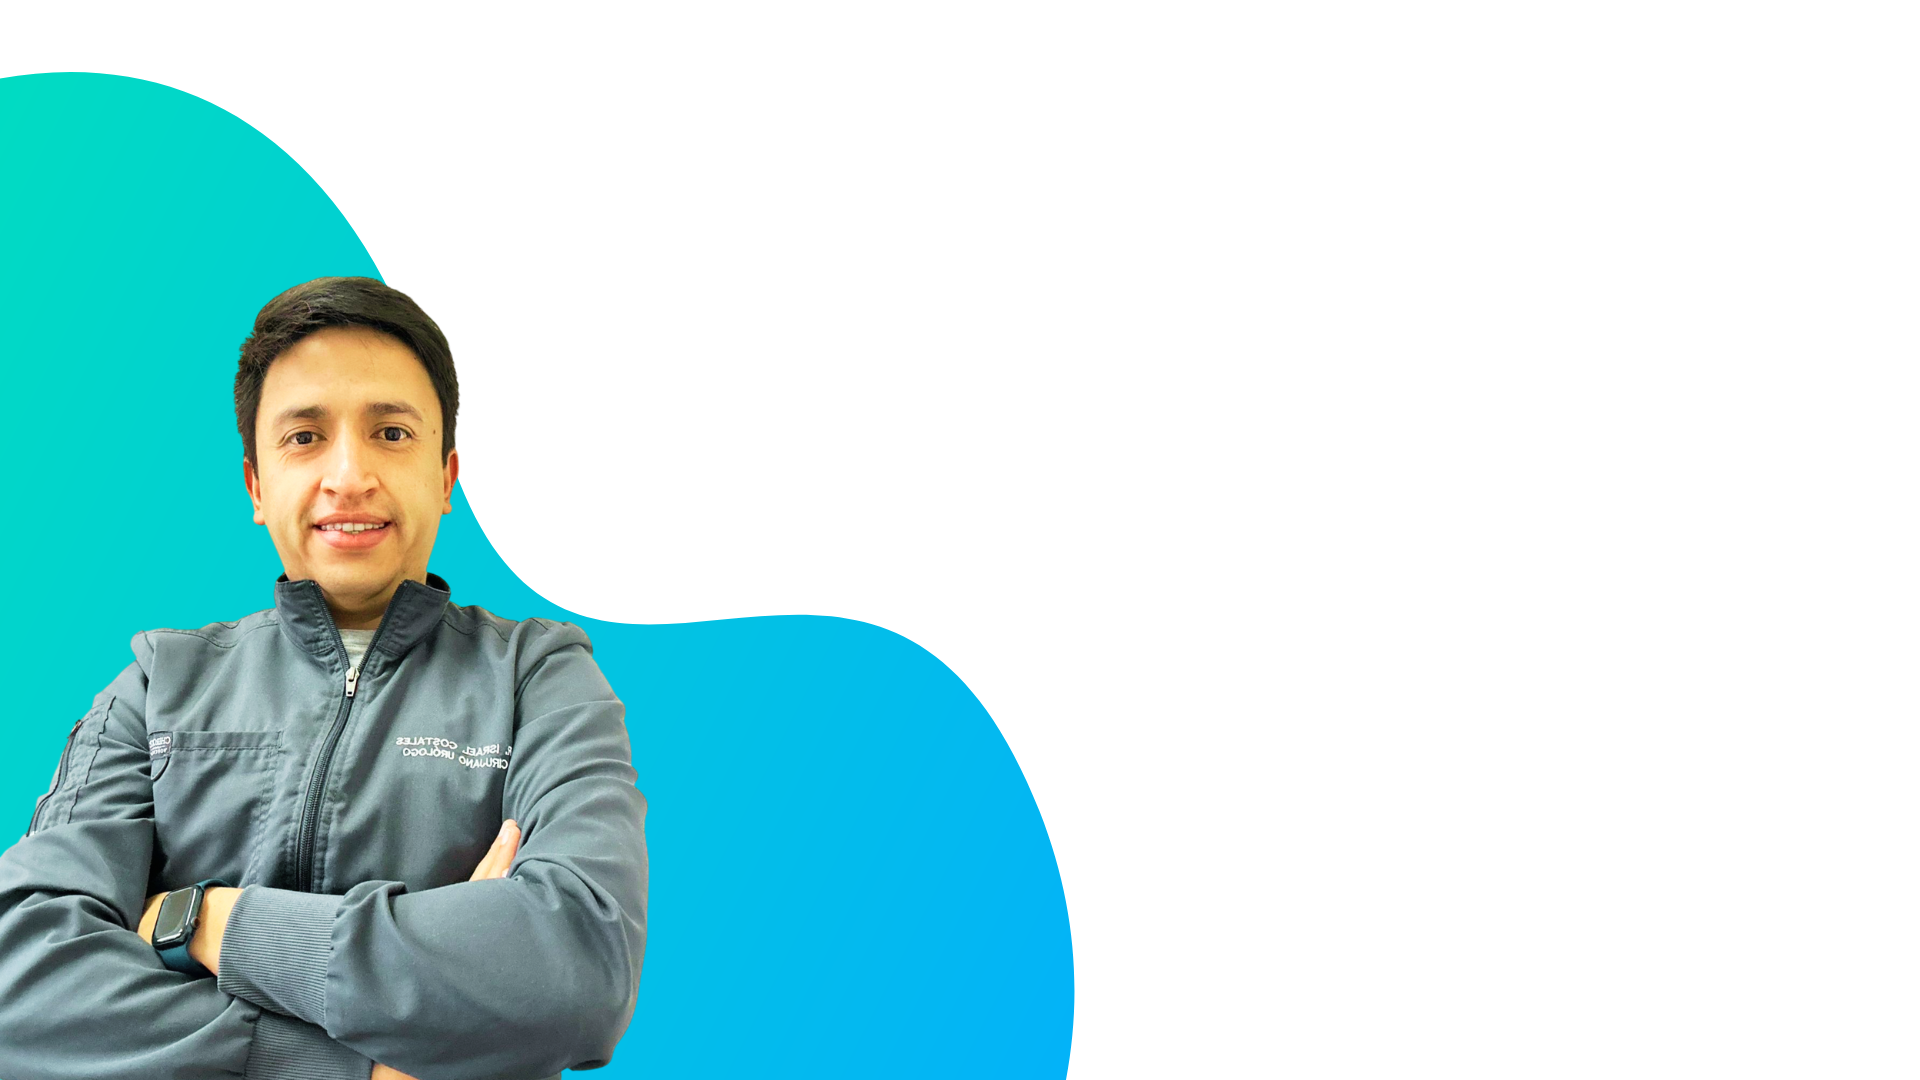
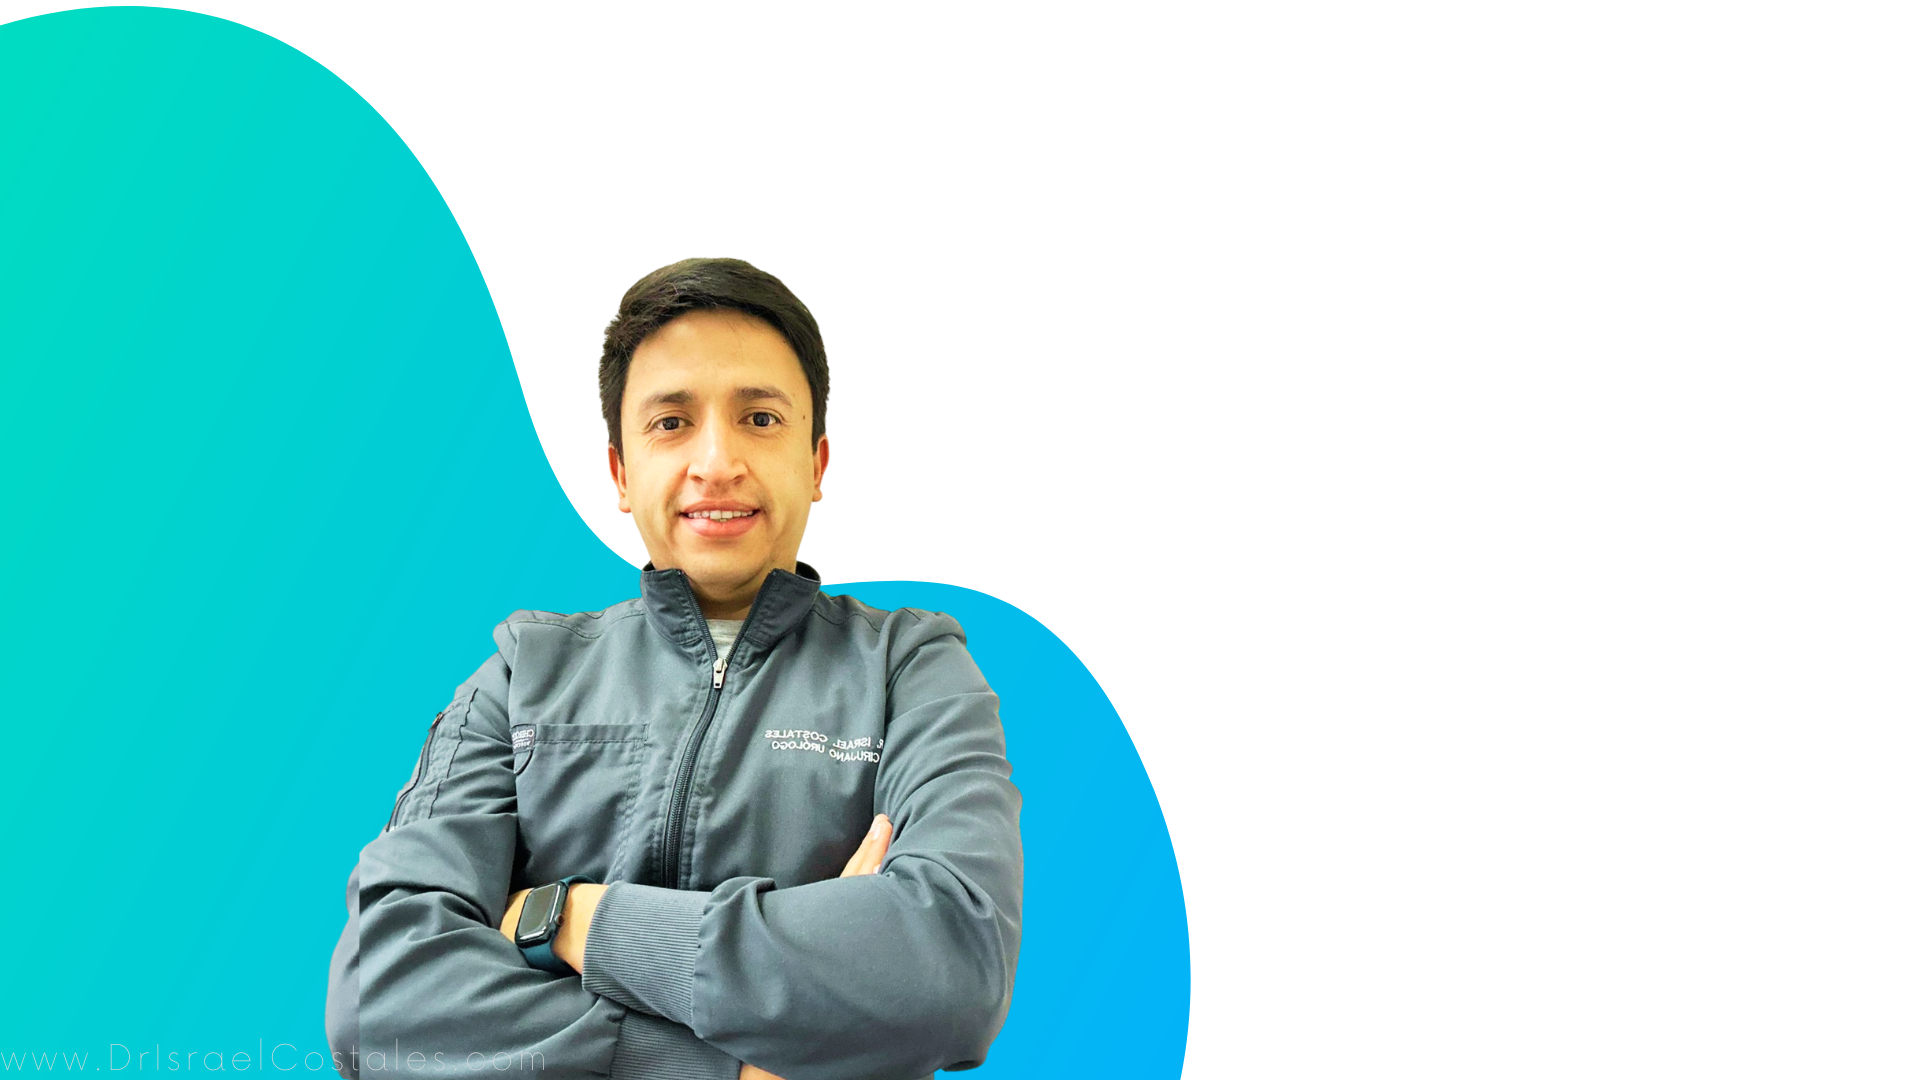
change carousel  and footer redesing tag

diff --git a/contact.html b/contact.html
@@ -152,10 +152,7 @@
                                 </div>
                             </div>
                             <div class="col-12">
-                                <button class="btn btn-dark py-3 px-4" type="submit"><i class="bi bi-send text-info me-2"></i>Enviar</button>
-                            </div>
-                            <div class="col-12">
-                               
+                                <button class="btn btn-dark py-3 px-4 w-50" type="submit"><i class="bi bi-send text-info me-2"></i>Enviar</button>
                             </div>
                         <div class="row g-3">
                             <div class="col-sm">
@@ -249,7 +246,7 @@
                 <div class="col-md-6 text-center text-md-end">
                     <!--/*** This template is free as long as you keep the footer author’s credit link/attribution link/backlink. If you'd like to use the template without the footer author’s credit link/attribution link/backlink, you can purchase the Credit Removal License from "https://htmlcodex.com/credit-removal". Thank you for your support. ***/-->
                     
-Designed By <a class="border-bottom" href="https://htmlcodex.com">HTML Codex</a> Redesigned By <a href="https://github.com/Npirela">Npirela</a>
+Designed By <a class="border-bottom" href="https://htmlcodex.com">HTML Codex</a> Redesigned By <a href="https://github.com/Npirela">Npirela 2024 ©</a>
                 </div>
             </div>
         </div>

diff --git a/index.html b/index.html
@@ -761,8 +761,7 @@ Cirujano Urólogo</h1>
                 </div>
                 <div class="col-md-6 text-center text-md-end">
                     <!--/*** This template is free as long as you keep the footer author’s credit link/attribution link/backlink. If you'd like to use the template without the footer author’s credit link/attribution link/backlink, you can purchase the Credit Removal License from "https://htmlcodex.com/credit-removal". Thank you for your support. ***/-->
-                    Designed By <a class="border-bottom" href="https://htmlcodex.com">HTML Codex</a> Distributed By <a
-                    href="https://themewagon.com">ThemeWagon</a>
+                    Designed By <a class="border-bottom" href="https://htmlcodex.com">HTML Codex</a> Redesigned By <a href="https://github.com/Npirela">Npirela 2024 ©</a>
                 </div>
             </div>
         </div>

diff --git a/team.html b/team.html
@@ -233,8 +233,7 @@
                 </div>
                 <div class="col-md-6 text-center text-md-end">
                     <!--/*** This template is free as long as you keep the footer author’s credit link/attribution link/backlink. If you'd like to use the template without the footer author’s credit link/attribution link/backlink, you can purchase the Credit Removal License from "https://htmlcodex.com/credit-removal". Thank you for your support. ***/-->
-                    Designed By <a class="border-bottom" href="https://htmlcodex.com">HTML Codex</a>  Distributed By <a
-                    href="https://themewagon.com">ThemeWagon</a>
+                    Designed By <a class="border-bottom" href="https://htmlcodex.com">HTML Codex</a>  Redesigned By <a href="https://github.com/Npirela">Npirela 2024 ©</a>
                 </div>
             </div>
         </div>

diff --git a/about.html b/about.html
@@ -371,7 +371,7 @@ Cirujano Urólogo</h1>
                 <div class="col-md-6 text-center text-md-end">
                     <!--/*** This template is free as long as you keep the footer author’s credit link/attribution link/backlink. If you'd like to use the template without the footer author’s credit link/attribution link/backlink, you can purchase the Credit Removal License from "https://htmlcodex.com/credit-removal". Thank you for your support. ***/-->
                     
-Designed By <a class="border-bottom" href="https://htmlcodex.com">HTML Codex</a> Redesigned By <a href="https://github.com/Npirela">Npirela</a>
+Designed By <a class="border-bottom" href="https://htmlcodex.com">HTML Codex</a> Redesigned By <a href="https://github.com/Npirela">Npirela 2024 ©</a>
                 </div>
             </div>
         </div>

diff --git a/404.html b/404.html
@@ -193,7 +193,7 @@
                 <div class="col-md-6 text-center text-md-end">
                     <!--/*** This template is free as long as you keep the footer author’s credit link/attribution link/backlink. If you'd like to use the template without the footer author’s credit link/attribution link/backlink, you can purchase the Credit Removal License from "https://htmlcodex.com/credit-removal". Thank you for your support. ***/-->
                     
-Designed By <a class="border-bottom" href="https://htmlcodex.com">HTML Codex</a> Redesigned By <a href="https://github.com/Npirela">Npirela</a>
+Designed By <a class="border-bottom" href="https://htmlcodex.com">HTML Codex</a> Redesigned By <a href="https://github.com/Npirela">Npirela 2024 ©</a>
                 </div>
             </div>
         </div>

diff --git a/feature.html b/feature.html
@@ -230,7 +230,7 @@
                 <div class="col-md-6 text-center text-md-end">
                     <!--/*** This template is free as long as you keep the footer author’s credit link/attribution link/backlink. If you'd like to use the template without the footer author’s credit link/attribution link/backlink, you can purchase the Credit Removal License from "https://htmlcodex.com/credit-removal". Thank you for your support. ***/-->
                     
-Designed By <a class="border-bottom" href="https://htmlcodex.com">HTML Codex</a> Redesigned By <a href="https://github.com/Npirela">Npirela</a>
+Designed By <a class="border-bottom" href="https://htmlcodex.com">HTML Codex</a> Redesigned By <a href="https://github.com/Npirela">Npirela 2024 ©</a>
                 </div>
             </div>
         </div>

diff --git a/interviews.html b/interviews.html
@@ -197,7 +197,7 @@
                 <div class="col-md-6 text-center text-md-end">
                     <!--/*** This template is free as long as you keep the footer author’s credit link/attribution link/backlink. If you'd like to use the template without the footer author’s credit link/attribution link/backlink, you can purchase the Credit Removal License from "https://htmlcodex.com/credit-removal". Thank you for your support. ***/-->
                     
-Designed By <a class="border-bottom" href="https://htmlcodex.com">HTML Codex</a> Redesigned By <a href="https://github.com/Npirela">Npirela</a>
+Designed By <a class="border-bottom" href="https://htmlcodex.com">HTML Codex</a> Redesigned By <a href="https://github.com/Npirela">Npirela 2024 ©</a>
                 </div>
             </div>
         </div>

diff --git a/project.html b/project.html
@@ -227,7 +227,7 @@
                 <div class="col-md-6 text-center text-md-end">
                     <!--/*** This template is free as long as you keep the footer author’s credit link/attribution link/backlink. If you'd like to use the template without the footer author’s credit link/attribution link/backlink, you can purchase the Credit Removal License from "https://htmlcodex.com/credit-removal". Thank you for your support. ***/-->
                     
-Designed By <a class="border-bottom" href="https://htmlcodex.com">HTML Codex</a> Redesigned By <a href="https://github.com/Npirela">Npirela</a>
+Designed By <a class="border-bottom" href="https://htmlcodex.com">HTML Codex</a> Redesigned By <a href="https://github.com/Npirela">Npirela 2024 ©</a>
                 </div>
             </div>
         </div>

diff --git a/service.html b/service.html
@@ -348,7 +348,7 @@
                 <div class="col-md-6 text-center text-md-end">
                     <!--/*** This template is free as long as you keep the footer author’s credit link/attribution link/backlink. If you'd like to use the template without the footer author’s credit link/attribution link/backlink, you can purchase the Credit Removal License from "https://htmlcodex.com/credit-removal". Thank you for your support. ***/-->
                     
-Designed By <a class="border-bottom" href="https://htmlcodex.com">HTML Codex</a> Redesigned By <a href="https://github.com/Npirela">Npirela</a>
+Designed By <a class="border-bottom" href="https://htmlcodex.com">HTML Codex</a> Redesigned By <a href="https://github.com/Npirela">Npirela 2024 ©</a>
                 </div>
             </div>
         </div>

diff --git a/testimonial.html b/testimonial.html
@@ -237,7 +237,7 @@
                 <div class="col-md-6 text-center text-md-end">
                     <!--/*** This template is free as long as you keep the footer author’s credit link/attribution link/backlink. If you'd like to use the template without the footer author’s credit link/attribution link/backlink, you can purchase the Credit Removal License from "https://htmlcodex.com/credit-removal". Thank you for your support. ***/-->
                     
-Designed By <a class="border-bottom" href="https://htmlcodex.com">HTML Codex</a> Redesigned By <a href="https://github.com/Npirela">Npirela</a>
+Designed By <a class="border-bottom" href="https://htmlcodex.com">HTML Codex</a> Redesigned By <a href="https://github.com/Npirela">Npirela 2024 ©</a>
                 </div>
             </div>
         </div>
